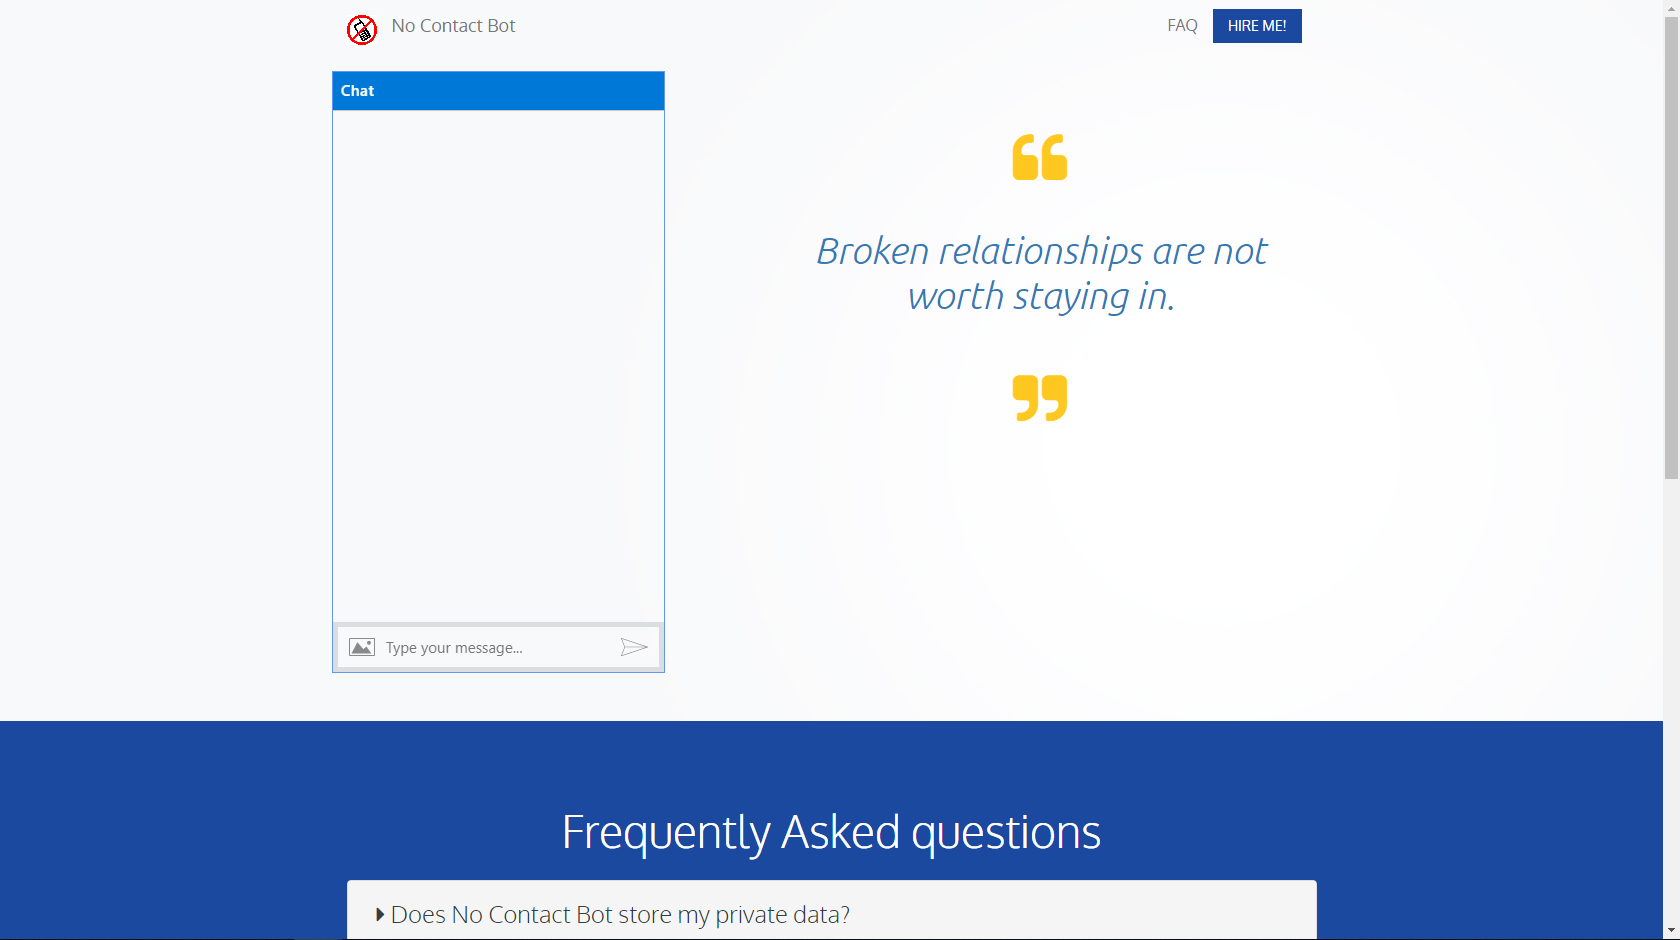
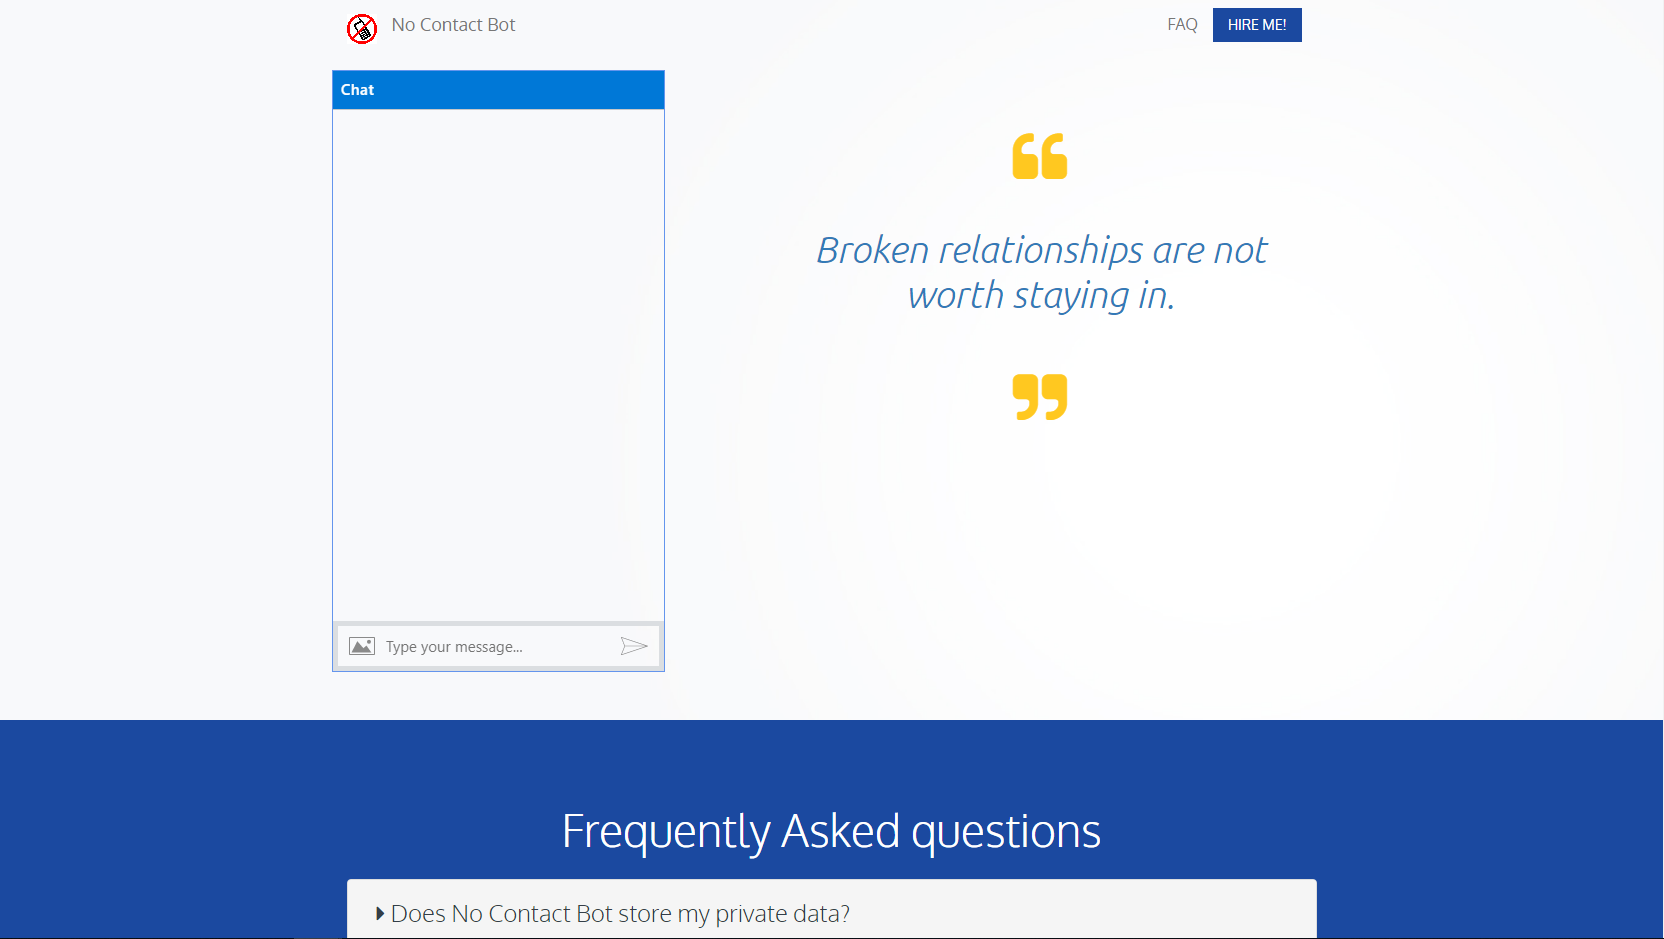
Updated homepage, fixed navbar issues on smaller screens

diff --git a/index.html b/index.html
@@ -10,22 +10,15 @@ layout: page
             <div class="col-md-8">
                 <dl>
                     <dt>Background</dt>
-                    <dd>I am a driven software engineer with a background in product management and development. I enjoy
-                        working on
-                        both the front end and the back end as well as leading teams to ship great products that serve
-                        customer's needs.
-                        My favorite language is C# and naturally, I'm conversant with the Microsoft stack - .NET Core,
-                        Entity Framework,
-                        Microsoft SQL Server and Microsoft Azure.
+                    <dd>I am a fullstack software engineer with a background in product management and development. As such, nothing gives me more pleasure than shipping great products that serve customer's needs. I'm most productive in C# and naturally, I'm pretty conversant with the Microsoft stack - .NET Core, Entity Framework, Microsoft SQL Server and Microsoft Azure. However, I've also dabbled in both Ruby and Python and I am currently exploring the Node.js ecosystem. 
                     </dd>
                     <dt>Philosophy</dt>
                     <dd>
-                            I enjoy learning new technology and languages and would like to work for an organization where product excellence is a focus and continuous learning is encouraged.
+                        I enjoy learning new technology and languages. For example, although my day-to-day work is in Angular, I am currently learning React. I've always found that such playful exploration and continuous learning not only keeps my skills sharp but also is genuinely gratifying.
                     </dd>
 
                     <dt>Personal Interests</dt>
-                    <dd>When I'm not working, I enjoy spending time improving my salsa dance skills. I'm also an avid
-                        soccer fan and player and thus spend my weekends making hard tackles and scoring goals.
+                    <dd>On weekends, I can be found either showing off my salsa dance moves or making hard tackles on the soccer pitch.
                     </dd>
 
                 </dl>
@@ -34,7 +27,7 @@ layout: page
 
             </div>
             <div class="col-md-4">
-                <img src="assets/isaac_largex.jpg" alt="" class="img-fluid" width="400px" height="300px">
+                <img src="assets/4692052.jpg" alt="" class="img-fluid" width="400px" height="300px">
             </div>
         </div>
     </div>
@@ -59,7 +52,7 @@ layout: page
 
             <div class="card">
                     <a href="http://interro.us" style="text-decoration: none">
-                <img class="card-img-top" src="/assets//peertutor.PNG" alt="Card image cap">
+                <img class="card-img-top" src="/assets//interro.PNG" alt="Card image cap">
                 <div class="card-body">
                     <h5 class="card-title">interro.us</h5>
                     <p class="card-text">interro is a responsive web application where users can create and play their own quizzes. Users can also play quizzes created by other users in a public quiz area. It is written using Angular for the frontend and C# and .NET Core for the backend api.

diff --git a/_includes/header.html b/_includes/header.html
@@ -1,6 +1,8 @@
-<nav class="navbar navbar-expand-lg navbar-dark bg-primary">
+<nav class="navbar fixed-top navbar-expand-lg navbar-dark bg-primary">
   <div class="container">
-    <a class="navbar-brand" rel="author" href="{{ "/" | relative_url }}">{{ site.title | escape }}</a>
+    <a class="navbar-brand" rel="author" href="{{ '/ | relative_url }}">{{ site.title | escape }}</a>
+    
+
 
     {%- assign page_paths = site.header_pages -%}
     <button class="navbar-toggler" type="button" data-toggle="collapse" data-target="#navbarSupportedContent"

diff --git a/assets/main.scss b/assets/main.scss
@@ -37,3 +37,17 @@
 
 
 }
+
+@media screen and (max-width: 480px) {
+    nav a {
+         font-size:80%;
+    }
+}
+
+.navbar-brand{
+    font-size: 1rem;
+}
+
+body {
+    padding-top: 100px;
+  }
